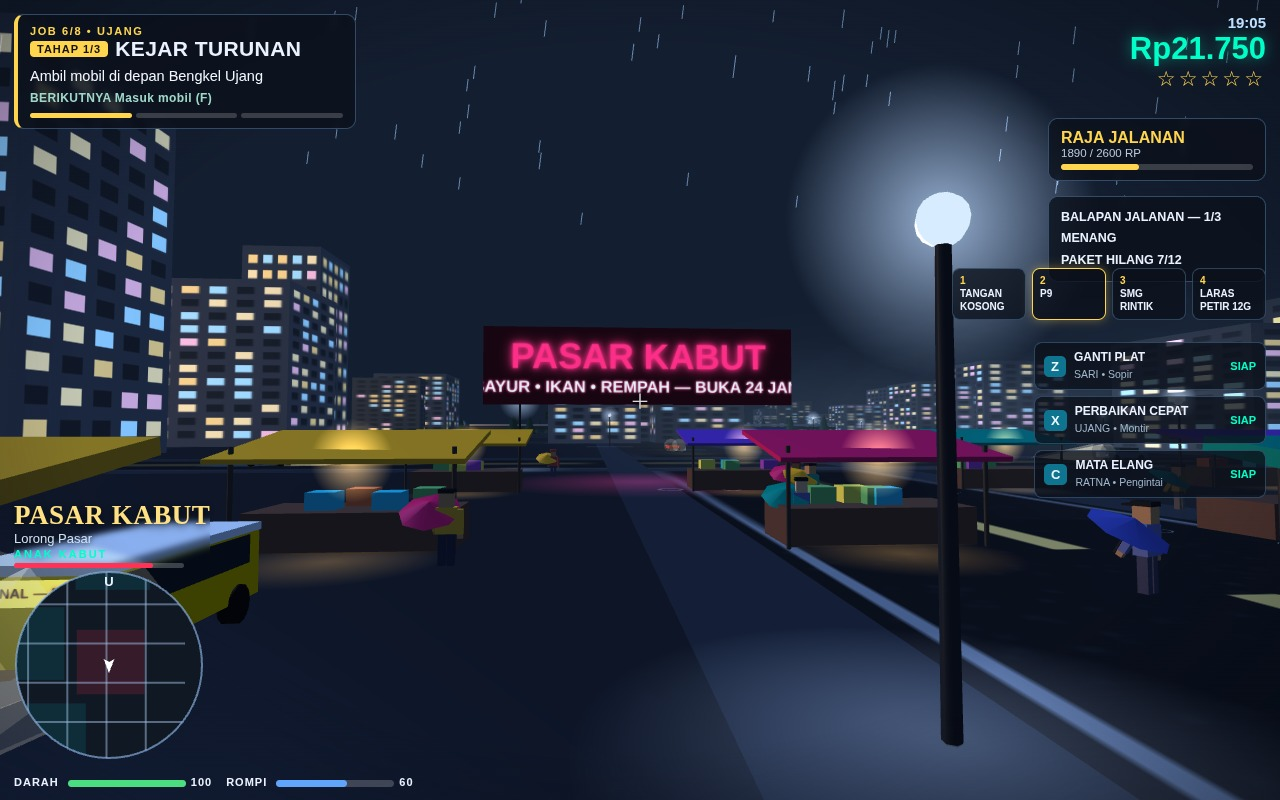
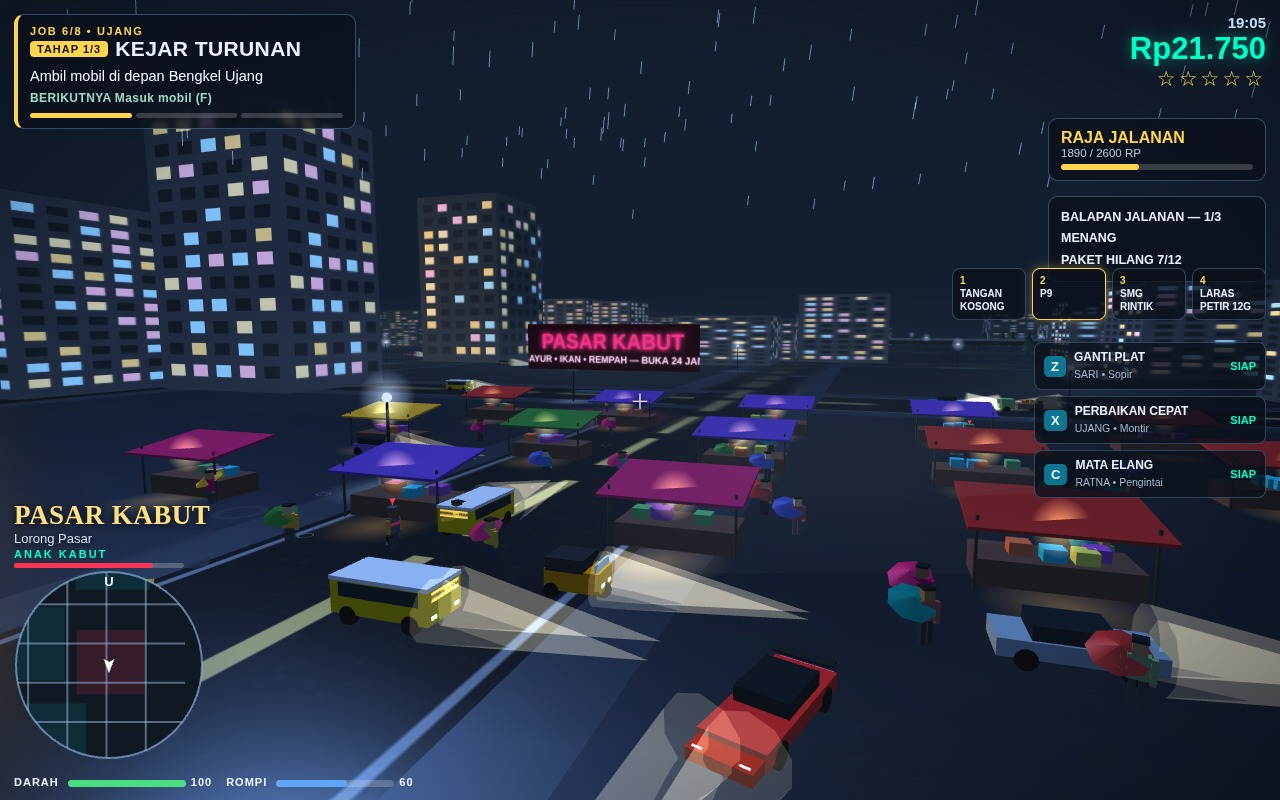
GERIMIS rev1e — cover shows the city's contents: dense traffic, market crowd, sign, towers, rain

diff --git a/game/src/shots.js b/game/src/shots.js
@@ -95,16 +95,27 @@ export function installStaging(api) {
     // x=180.4 spears aisle views — so each framing below is the
     // survivor of its family, not a first guess.
     //
-    // REV1D — the owner's final word on the cover: the vista idea is
+    // REV1D — the owner's word on the cover: the vista idea is
     // right, but come DOWN to the street, make the stall order read
-    // and put the sign where it cannot be missed. Frame d (now the
-    // default) stands in the market's west gap at 3.4 m, looking
-    // along the aisle axis: the lamp line at x=180.4 marches down
-    // the view but passes just east of the sign, the stall rows
-    // converge on both sides, and the 21 m PASAR KABUT board closes
-    // the vista large enough to read at thumbnail size. An angkot
-    // waits at the west mouth and umbrella shoppers thread the aisle
-    // — life at the edges, the market itself as the subject.
+    // and put the sign where it cannot be missed. Frame d stands in
+    // the market's west gap at 3.4 m, looking along the aisle axis:
+    // the lamp line at x=180.4 marches down the view but passes just
+    // east of the sign, the stall rows converge on both sides, and
+    // the 21 m PASAR KABUT board closes the vista large enough to
+    // read at thumbnail size. An angkot waits at the west mouth and
+    // umbrella shoppers thread the aisle — life at the edges.
+    //
+    // REV1E — the owner's next word, and the current default: frame
+    // d fixed the sign and the closeness but shows ONE lane, not a
+    // city — its middle is a dark empty street. "Harus nampilin isi
+    // kota, biar kelihatan hidup dan kelihatan open world-nya": the
+    // cover must display the CONTENTS of the city. Frame e pulls
+    // back up to a medium three-quarter (~10.5 m) over the market's
+    // south junction and fills EVERY depth layer: staged dense
+    // traffic on the foreground streets, the market full of
+    // shoppers in the midground, the sign closing the vista as the
+    // focal, towers and rain behind. Nothing in frame is scenery
+    // alone — every layer carries vehicles, people or signage.
     vista() {
       api.seedStats(SHOWCASE);
       api.startJobAt(5); // JOB 6 sits on offer — the panel reads calm
@@ -155,8 +166,8 @@ export function installStaging(api) {
         // of the market, looking across the stalls to the sign and
         // the towers behind it.
         api.setCam([214, 17, 112], [182, 3, 22]);
-      } else {
-        // D (default) — street level in the west gap, rev1d. The
+      } else if (frame === 'd') {
+        // D — street level in the west gap, rev1d. The
         // angkot waits at the market's west mouth with its front to
         // the street; three more shoppers thread the aisle so the
         // mid-distance carries life between the converging rows.
@@ -171,6 +182,39 @@ export function installStaging(api) {
           shopper.mesh.userData.holdsUmbrella = true;
         });
         api.setCam([176.5, 3.4, 64], [180, 5.3, 19]);
+      } else {
+        // E (default) — the full-city cover, rev1e. Medium
+        // three-quarter over the market's south junction, every
+        // depth layer filled: a staged rush on the foreground
+        // streets (angkot, truk sayur, sedan, bajaj around the GT),
+        // eight extra shoppers crowding the aisles and the south
+        // edge on top of the base crowd, the PASAR KABUT sign
+        // closing the vista as the focal, towers and rain behind.
+        heroCar.mesh.position.set(206, 0, 74);
+        heroCar.mesh.rotation.y = -0.3;
+        const rush = [
+          ['angkot', 193, 72, Math.PI / 2, 0xffc400],
+          ['bajaj', 198, 68, Math.PI / 2, 0xff9100],
+          ['sedan', 214, 68, Math.PI / 2, 0x90a4ae],
+          ['truk', 225, 2, -Math.PI / 2, 0x66bb6a],
+          ['hatch', 172, 48, Math.PI / 2, 0x7e57c2],
+        ];
+        rush.forEach(([kind, vx, vz, vh, vc]) => {
+          const v = api.carEntity(kind, vx, vz, vh, 'traffic', vc);
+          v.speed = 0; // staged stills: the rush holds its marks
+        });
+        const crowdE = [
+          [176, 40], [180, 57], [173, 63], [224, 42],
+          [228, 58], [183, 67], [210, 66], [217, 60],
+          [190, 64], [205, 58], [215, 70], [199, 44],
+          [193, 50], [221, 50], [186, 76],
+          [202, 47], [176, 52],
+        ];
+        crowdE.forEach(([px, pz], i) => {
+          const shopper = api.pedEntity('civ', { umbrella: umbrellaPalette[i % umbrellaPalette.length] }, px, pz, Math.PI + (i % 2 ? 0.35 : -0.3));
+          shopper.mesh.userData.holdsUmbrella = true;
+        });
+        api.setCam([208, 10, 90], [186, 2.5, 26]);
       }
     },
 
